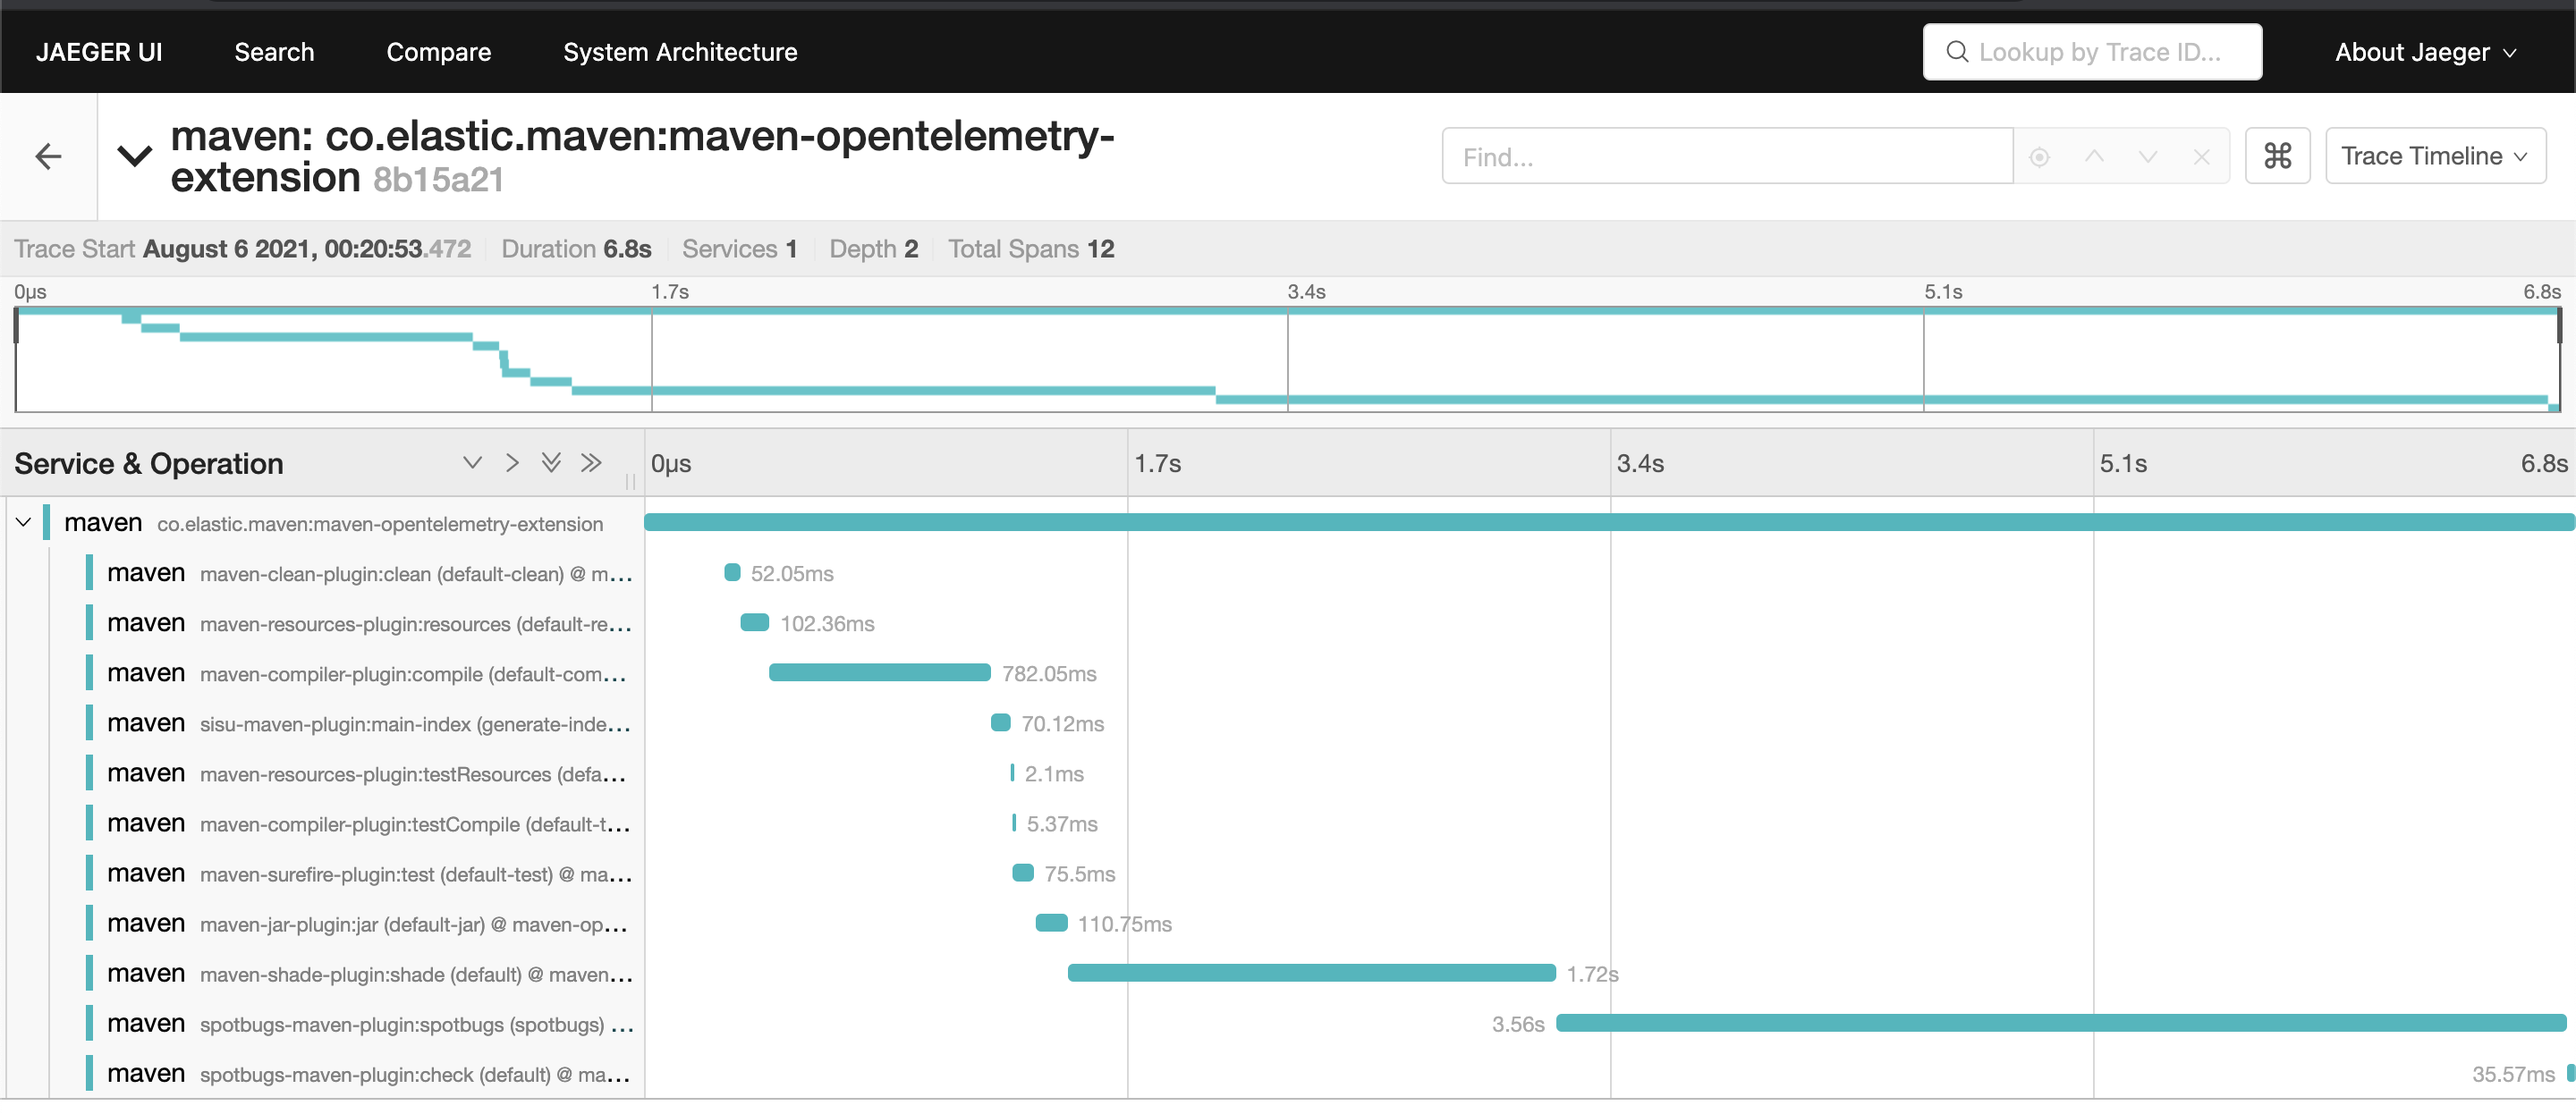
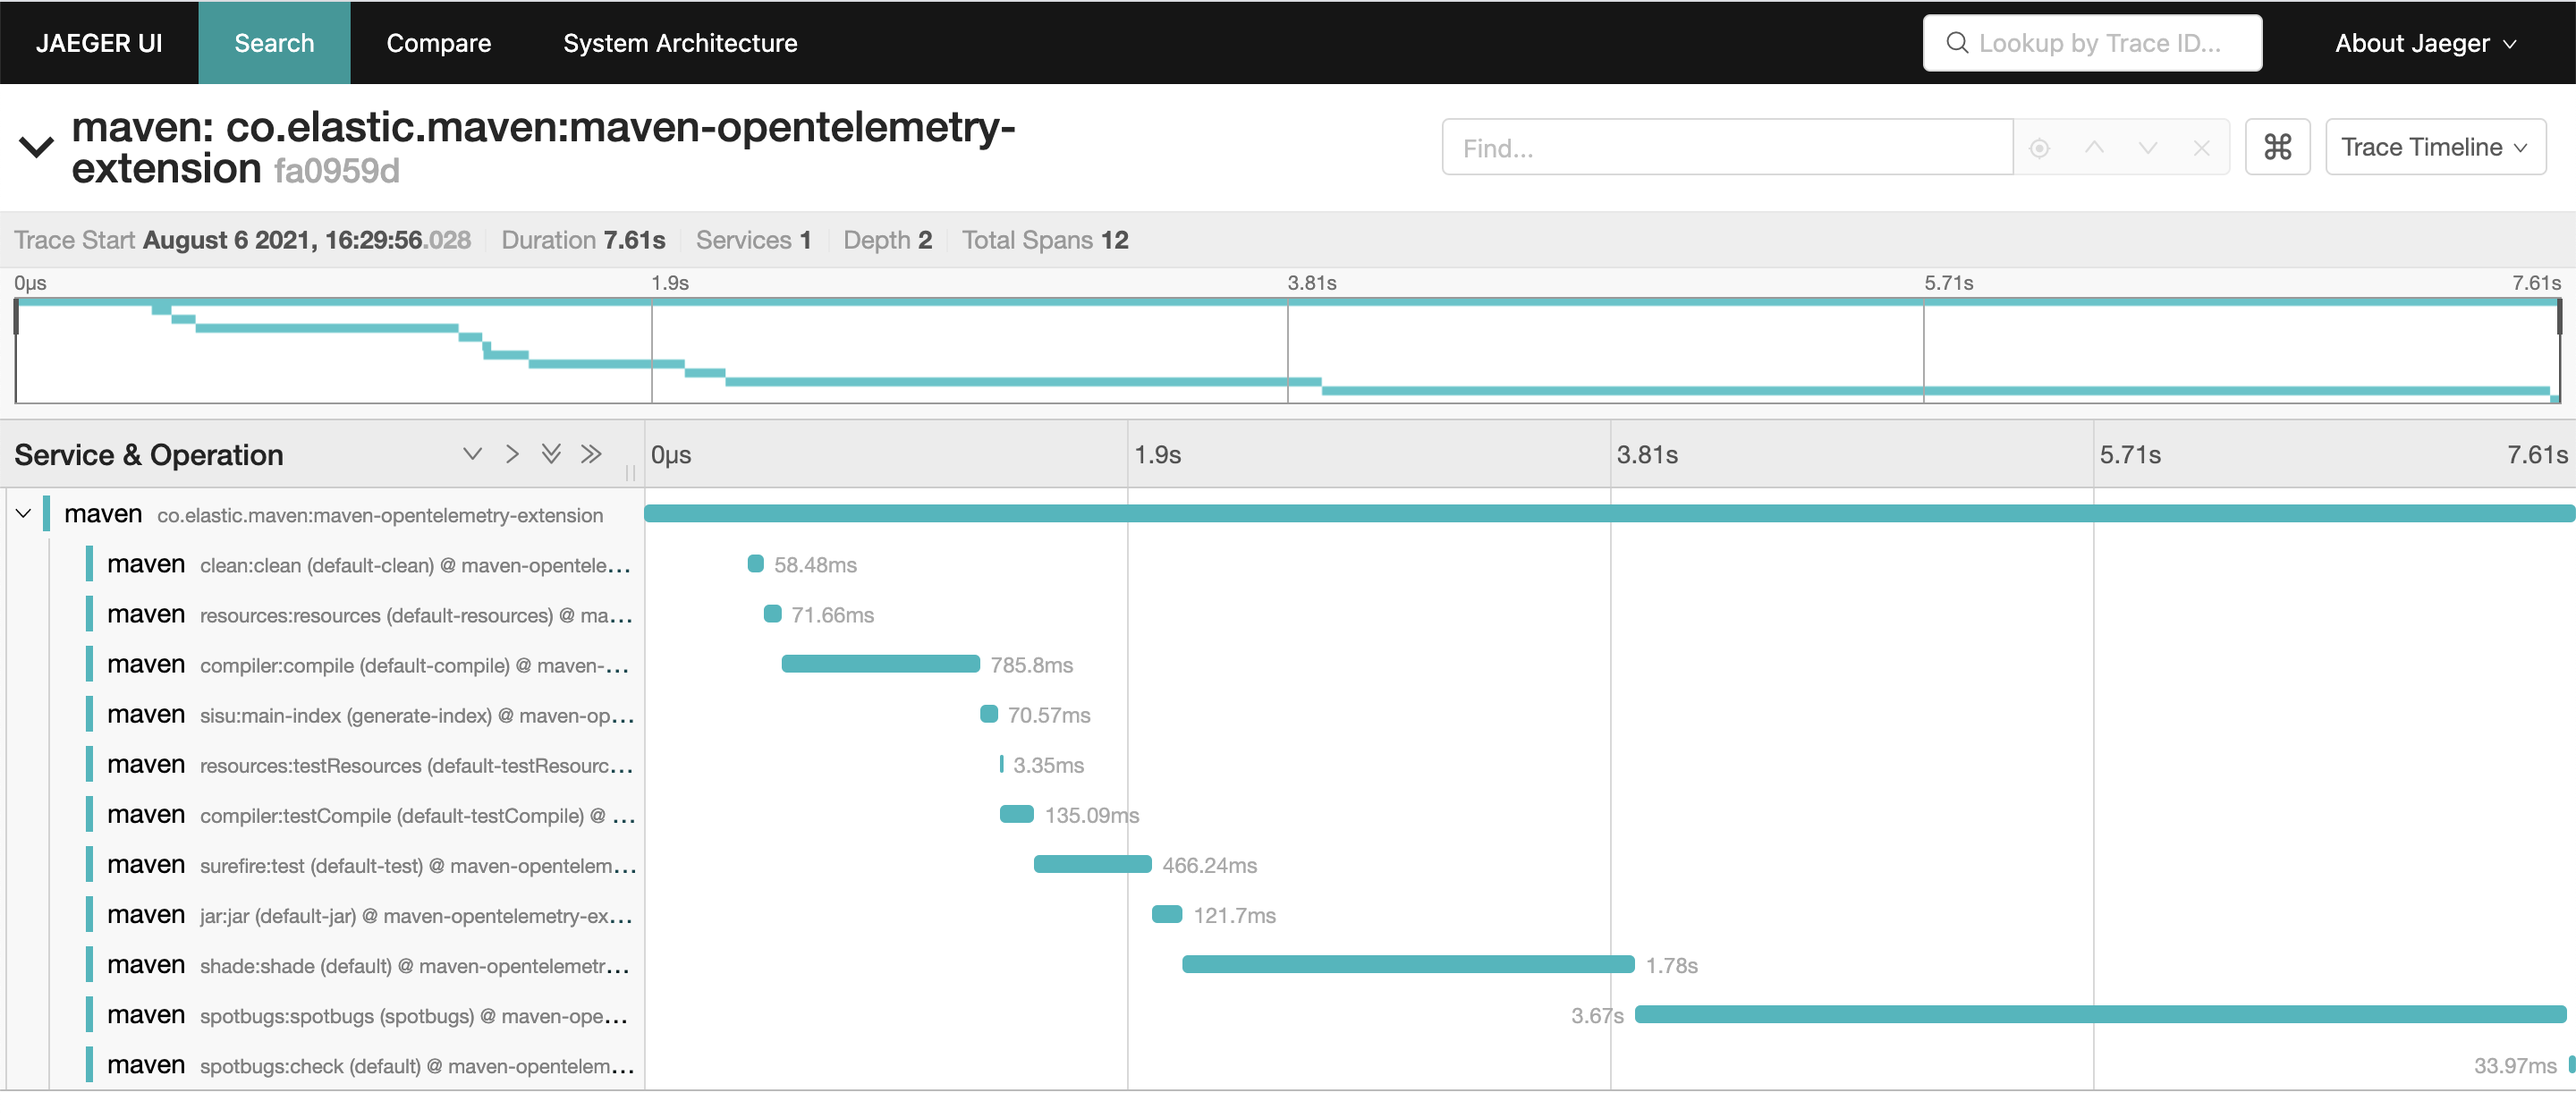
Better span names

Changed region(s): [[0.0, 0.0, 1.0, 0.9759], [0.875, 0.122, 0.9688, 0.1525], [0.5625, 0.122, 0.5938, 0.1525]]

diff --git a/src/main/java/co/elastic/maven/opentelemetry/eventspy/OtelEventSpy.java b/src/main/java/co/elastic/maven/opentelemetry/eventspy/OtelEventSpy.java
@@ -3,9 +3,10 @@
  * SPDX-License-Identifier: Apache-2.0
  */
 
-package co.elastic.maven;
+package co.elastic.maven.opentelemetry.eventspy;
 
-import co.elastic.maven.semconv.MavenOtelSemanticAttributes;
+import co.elastic.maven.opentelemetry.SpanRegistry;
+import co.elastic.maven.opentelemetry.semconv.MavenOtelSemanticAttributes;
 import io.opentelemetry.api.GlobalOpenTelemetry;
 import io.opentelemetry.api.trace.Span;
 import io.opentelemetry.api.trace.StatusCode;
@@ -24,6 +25,8 @@ import org.apache.maven.project.MavenProject;
 import org.slf4j.Logger;
 import org.slf4j.LoggerFactory;
 
+import javax.annotation.Nonnull;
+import javax.inject.Inject;
 import javax.inject.Named;
 import javax.inject.Singleton;
 
@@ -33,7 +36,8 @@ public class OtelEventSpy extends AbstractEventSpy {
 
     private final Logger logger = LoggerFactory.getLogger(getClass());
 
-    private final SpanRegistry spanRegistry = new SpanRegistry();
+    @Inject
+    private SpanRegistry spanRegistry;
 
     @Override
     public void init(EventSpy.Context context) throws Exception {
@@ -46,7 +50,7 @@ public class OtelEventSpy extends AbstractEventSpy {
             OpenTelemetrySdk.builder().setTracerProvider(sdkTracerProvider).buildAndRegisterGlobal();
             logger.warn("OpenTelemetry configured with Logging exporter");
         } else {
-            logger.info("OpenTelemetry configured with environment variables (OTEL_EXPORTER_OTLP_ENDPOINT: " + otelExporterOtlpEndpoint + "...)");
+            logger.warn("OpenTelemetry configured with environment variables (OTEL_EXPORTER_OTLP_ENDPOINT: " + otelExporterOtlpEndpoint + "...)");
         }
     }
 
@@ -113,7 +117,7 @@ public class OtelEventSpy extends AbstractEventSpy {
                 try (Scope scope = rootSpan.makeCurrent()) {
 
                     Span span = tracer.spanBuilder(
-                                    mojoExecution.getPlugin().getArtifactId() + ":" + mojoExecution.getGoal() +
+                                     getPluginArtifactIdShortName(mojoExecution.getArtifactId()) + ":" + mojoExecution.getGoal() +
                                             " (" + executionEvent.getMojoExecution().getExecutionId() + ")" +
                                             " @ " + executionEvent.getProject().getArtifactId() + " ")
 
@@ -156,6 +160,24 @@ public class OtelEventSpy extends AbstractEventSpy {
         }
     }
 
+    /**
+     * maven-clean-plugin -> clean
+     * sisu-maven-plugin -> sisu
+     * spotbugs-maven-plugin -> spotbugs
+     *
+     * @param pluginArtifactId
+     * @return
+     */
+    @Nonnull
+    protected String getPluginArtifactIdShortName(@Nonnull String pluginArtifactId) {
+        if (pluginArtifactId.endsWith("-maven-plugin")) {
+            return pluginArtifactId.substring(0, pluginArtifactId.length() - "-maven-plugin".length());
+        } else if (pluginArtifactId.startsWith("maven-") && pluginArtifactId.endsWith("-plugin")) {
+            return pluginArtifactId.substring("maven-".length(), pluginArtifactId.length() - "-plugin".length());
+        } else {
+            return pluginArtifactId;
+        }
+    }
 
     @Override
     public void close() {

diff --git a/src/main/java/co/elastic/maven/opentelemetry/surefire/OtelRunListener.java b/src/main/java/co/elastic/maven/opentelemetry/surefire/OtelRunListener.java
@@ -1,0 +1,71 @@
+/*
+ * Copyright The Original Author or Authors
+ * SPDX-License-Identifier: Apache-2.0
+ */
+
+package co.elastic.maven.opentelemetry.surefire;
+
+import co.elastic.maven.opentelemetry.SpanRegistry;
+import org.apache.maven.surefire.report.ReportEntry;
+import org.apache.maven.surefire.report.RunListener;
+import org.apache.maven.surefire.report.TestSetReportEntry;
+import org.slf4j.Logger;
+import org.slf4j.LoggerFactory;
+
+import javax.inject.Inject;
+
+/**
+ * FIXME how to register this listener?
+ */
+public class OtelRunListener implements RunListener {
+
+    private final Logger logger = LoggerFactory.getLogger(getClass());
+
+    @Inject
+    private SpanRegistry spanRegistry;
+
+    @Override
+    public void testSetStarting(TestSetReportEntry report) {
+
+    }
+
+    @Override
+    public void testSetCompleted(TestSetReportEntry report) {
+
+    }
+
+    @Override
+    public void testStarting(ReportEntry report) {
+        logger.warn("testStarting(" + report + ")");
+    }
+
+    @Override
+    public void testSucceeded(ReportEntry report) {
+        logger.warn("testSucceeded(" + report + ")");
+    }
+
+    @Override
+    public void testAssumptionFailure(ReportEntry report) {
+        logger.warn("testAssumptionFailure(" + report + ")");
+    }
+
+    @Override
+    public void testError(ReportEntry report) {
+        logger.warn("testError(" + report + ")");
+    }
+
+    @Override
+    public void testFailed(ReportEntry report) {
+        logger.warn("testFailed(" + report + ")");
+    }
+
+    @Override
+    public void testSkipped(ReportEntry report) {
+        logger.warn("testSkipped(" + report + ")");
+    }
+
+    @Override
+    public void testExecutionSkippedByUser() {
+
+    }
+}

diff --git a/src/test/java/co/elastic/maven/opentelemetry/eventspy/OtelEventSpyTest.java b/src/test/java/co/elastic/maven/opentelemetry/eventspy/OtelEventSpyTest.java
@@ -1,0 +1,25 @@
+package co.elastic.maven.opentelemetry.eventspy;
+
+import junit.framework.Assert;
+import org.junit.Test;
+
+import static org.junit.Assert.*;
+
+public class OtelEventSpyTest {
+
+    @Test
+    public void getPluginArtifactIdShortName_builtinPluginName() {
+        OtelEventSpy otelEventSpy = new OtelEventSpy();
+        String actual = otelEventSpy.getPluginArtifactIdShortName("maven-clean-plugin");
+        String expected  = "clean";
+        assertEquals(expected, actual);
+    }
+
+    @Test
+    public void getPluginArtifactIdShortName_thirdPartyPluginName() {
+        OtelEventSpy otelEventSpy = new OtelEventSpy();
+        String actual = otelEventSpy.getPluginArtifactIdShortName("spotbugs-maven-plugin");
+        String expected  = "spotbugs";
+        assertEquals(expected, actual);
+    }
+}

diff --git a/src/main/java/co/elastic/maven/opentelemetry/SpanRegistry.java b/src/main/java/co/elastic/maven/opentelemetry/SpanRegistry.java
@@ -2,7 +2,7 @@
  * Copyright The Original Author or Authors
  * SPDX-License-Identifier: Apache-2.0
  */
-package co.elastic.maven;
+package co.elastic.maven.opentelemetry;
 
 import io.opentelemetry.api.trace.Span;
 import org.apache.maven.model.Plugin;
@@ -10,11 +10,15 @@ import org.apache.maven.plugin.MojoExecution;
 
 import javax.annotation.Nonnull;
 import javax.annotation.Nullable;
+import javax.inject.Named;
+import javax.inject.Singleton;
 import java.util.HashMap;
 import java.util.Map;
 import java.util.Objects;
 import java.util.stream.Collectors;
 
+@Named
+@Singleton
 public class SpanRegistry {
 
     private Span rootSpan;

diff --git a/src/main/java/co/elastic/maven/opentelemetry/semconv/MavenOtelSemanticAttributes.java b/src/main/java/co/elastic/maven/opentelemetry/semconv/MavenOtelSemanticAttributes.java
@@ -3,7 +3,7 @@
  * SPDX-License-Identifier: Apache-2.0
  */
 
-package co.elastic.maven.semconv;
+package co.elastic.maven.opentelemetry.semconv;
 
 import io.opentelemetry.api.common.AttributeKey;
 
